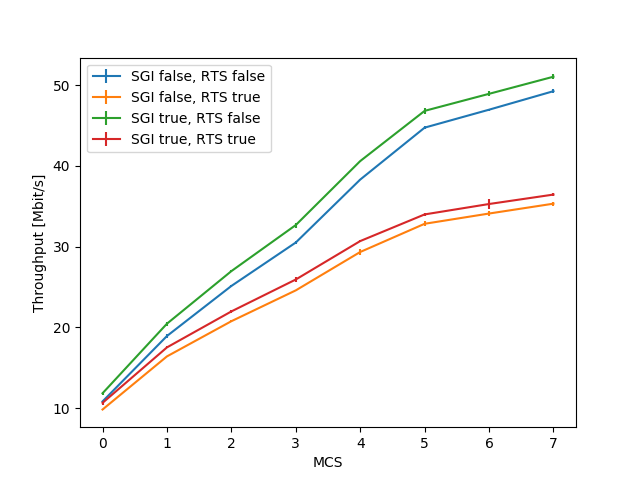
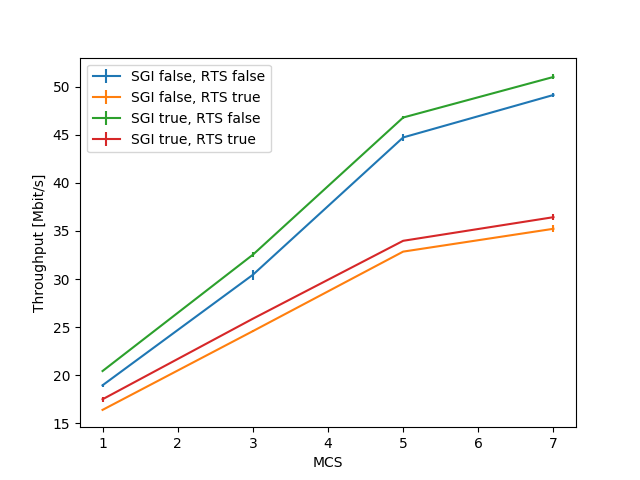
Update documentation for testing

diff --git a/sem/manager.py b/sem/manager.py
@@ -8,6 +8,7 @@ from tqdm import tqdm
 from random import shuffle
 import numpy as np
 import xarray as xr
+import os
 from pathlib import Path
 if DRMAA_AVAILABLE:
     from .gridrunner import GridRunner
@@ -84,6 +85,10 @@ class CampaignManager(object):
             optimized (bool): whether to configure the runner to employ an
                 optimized ns-3 build.
         """
+        # Convert paths to be absolute
+        ns_path = os.path.abspath(ns_path)
+        campaign_dir = os.path.abspath(campaign_dir)
+
         # Verify if the specified campaign is already available
         if Path(campaign_dir).exists() and not overwrite:
             try:

diff --git a/docs/getting-started.rst b/docs/getting-started.rst
@@ -12,7 +12,8 @@ to a variety of formats for analysis and plotting.
 
 In the following sections we will use `SEM` to go from a vanilla ns-3
 installation (assumed to be available at `/tmp/ns-3`) to plots visualizing the
-results, in as few commands as possible.
+results, in as few commands as possible. A script containing the commands of
+this section is available at `examples/wifi_plotting_xarray.py`.
 
 Creating and loading a simulation campaign
 ------------------------------------------
@@ -25,12 +26,11 @@ Creation of a new campaign requires:
 
 We can create a campaign using the following instructions::
 
-  import sem
-  ns_path = '/tmp/ns-3'
-  script = 'wifi-multi-tos'
-  campaign_dir = '/tmp/wifi-plotting-example'
-  campaign = sem.CampaignManager.new(ns_path, script,
-                                     campaign_dir)
+  >>> import sem
+  >>> ns_path = 'examples/ns-3'
+  >>> script = 'wifi-multi-tos'
+  >>> campaign_dir = '/tmp/wifi-plotting-example'
+  >>> campaign = sem.CampaignManager.new(ns_path, script, campaign_dir, overwrite=True)
 
 Internally, `SEM` also checks whether the path points to a valid ns-3
 installation, and whether the script is actually available for execution or not.
@@ -43,9 +43,8 @@ the campaign:
 
 ::
 
-   >>> print(campaign)
+   >>> print(campaign) # doctest: +SKIP
    --- Campaign info ---
-   ns-3 path: /tmp/ns-3
    script: wifi-multi-tos
    params: ['nWifi', 'distance', 'simulationTime', 'useRts', 'mcs',
             'channelWidth', 'useShortGuardInterval']
@@ -63,17 +62,18 @@ Simulations can be run by specifying a list of parameter combinations.
 
 ::
 
-  param_combination = {
-      'nWifi': 1,
-      'distance': 1,
-      'simulationTime': 10,
-      'useRts': 'false',
-      'mcs': 7,
-      'channelWidth': 20,
-      'useShortGuardInterval': 'false'
-  }
+  >>> param_combination = {
+  ...    'nWifi': 1,
+  ...    'distance': 1,
+  ...    'simulationTime': 10,
+  ...    'useRts': 'false',
+  ...    'mcs': 7,
+  ...    'channelWidth': 20,
+  ...    'useShortGuardInterval': 'false'
+  ... }
   >>> campaign.run_simulations([param_combination])
-      Running simulations: 100%|██████| 1/1 [00:04<00:00,  4.28s/simulation]
+
+  Running simulations: 100% 1/1 [00:10<00:00, 10.81s/simulation]
 
 The `run_simulations` method automatically queries the database looking for an
 appropriate `RngRun` value that has not yet been used, and runs the requested
@@ -89,19 +89,21 @@ list of dictionaries specifying all combinations of parameter values. For
 example, let's try the same simulation parameters as before, but perform the
 simulations both for the `true` and `false` values of the `useRts` parameter::
 
-  param_combinations = {
-      'nWifi': 1,
-      'distance': 1,
-      'simulationTime': 10,
-      'useRts': ['false', 'true'],
-      'mcs': 7,
-      'channelWidth': 20,
-      'useShortGuardInterval': 'false'
-  }
+  >>> param_combinations = {
+  ...     'nWifi': 1,
+  ...     'distance': 1,
+  ...     'simulationTime': 10,
+  ...     'useRts': ['false', 'true'],
+  ...     'mcs': 7,
+  ...     'channelWidth': 20,
+  ...     'useShortGuardInterval': 'false'
+  ... }
   >>> campaign.run_missing_simulations(
-                 sem.list_param_combinations(param_combinations),
-                 runs=1)
-      Running simulations: 100%|██████| 1/1 [00:04<00:00,  4.72s/simulation]
+  ...     sem.list_param_combinations(param_combinations),
+  ...     runs=1)
+
+  Running simulations: 100% 1/1 [00:09<00:00,  9.63s/simulation]
+
 
 From the output, it can be noticed that only one simulation was run: in fact,
 since we used the `run_missing_simulations` function, before running the
@@ -117,20 +119,21 @@ plot. In order to do this, first we define a new `param_combinations`
 dictionary, ranging the `mcs` parameter from 0 to 7 and turning on and off the
 `RequestToSend` and `ShortGuardInterval` parameters::
 
-  param_combinations = {
-      'nWifi': 1,
-      'distance': 1,
-      'simulationTime': 10,
-      'useRts': ['false', 'true'],
-      'mcs': list(range(8)),
-      'channelWidth': 20,
-      'useShortGuardInterval': ['false', 'true']
-  }
-
+  >>> param_combinations = {
+  ...     'nWifi': 1,
+  ...     'distance': 1,
+  ...     'simulationTime': 10,
+  ...     'useRts': ['false', 'true'],
+  ...     'mcs': list(range(1, 8, 2)),
+  ...     'channelWidth': 20,
+  ...     'useShortGuardInterval': ['false', 'true']
+  ... }
   >>> campaign.run_missing_simulations(
-                  sem.list_param_combinations(param_combinations),
-                  runs=3)
-      Running simulations: 100%|██████| 94/94 [05:47<00:00,  3.70s/simulation]
+  ...             sem.list_param_combinations(param_combinations),
+  ...             runs=2)
+
+  Running simulations: 100% 32/32 [02:57<00:00,  3.86s/simulation]
+
 
 Exporting results
 -----------------
@@ -140,21 +143,21 @@ to the `CampaignManager`, and available as the `db` attribute of the campaign.
 For instance, let's check out the first result::
 
   >>> len(campaign.db.get_results())
-      96
-  >>> campaign.db.get_results()[0]
-      {
-        'nWifi': 1,
-        'distance': 1,
-        'simulationTime': 10,
-        'useRts': 'false',
-        'mcs': 7,
-        'channelWidth': 20,
-        'useShortGuardInterval': 'false',
-        'RngRun': 1,
-        'id': '771e0511-43b9-4e33-aa6a-dc4266be24f1',
-        'elapsed_time': 4.270819187164307,
-        'stdout': 'Aggregated throughput: 49.2696 Mbit/s\n'
-      }
+  32
+  >>> campaign.db.get_results()[0] # doctest: +SKIP
+  {
+    'nWifi': 1,
+    'distance': 1,
+    'simulationTime': 10,
+    'useRts': 'false',
+    'mcs': 7,
+    'channelWidth': 20,
+    'useShortGuardInterval': 'false',
+    'RngRun': 1,
+    'id': '771e0511-43b9-4e33-aa6a-dc4266be24f1',
+    'elapsed_time': 4.270819187164307,
+    'stdout': 'Aggregated throughput: 49.2696 Mbit/s\n'
+  }
 
 Results are returned as dictionaries, with a key-value pair for each available
 script parameter, and the following additional fields:
@@ -174,20 +177,22 @@ throughput measured by the simulation. `SEM` will then use the function to
 automatically clean up the results before putting them in an `xarray`
 structure::
 
-  import re  # Regular expressions to perform the parsing
-
-
-  def get_average_throughput(stdout):
-    m = re.match('.*throughput: [-+]?([0-9]*\.?[0-9]+).*', stdout,
-                re.DOTALL).group(1)
-    return float(m)
-
+  >>> import re  # Regular expressions to perform the parsing
+  >>> def get_average_throughput(result):
+  ...     # This function takes a result and parses its standard output to extract
+  ...     # relevant information
+  ...     available_files = campaign.db.get_result_files(result['meta']['id'])
+  ...     with open(available_files['stdout'], 'r') as stdout:
+  ...         stdout = stdout.read()
+  ...         m = re.match('.*throughput: [-+]?([0-9]*\.?[0-9]+).*', stdout,
+  ...                     re.DOTALL).group(1)
+  ...         return float(m)
 
   >>> results = campaign.get_results_as_xarray(param_combinations,
-                                               get_average_throughput,
-                                               'AvgThroughput', runs=3)
+  ...                                          get_average_throughput,
+  ...                                          'AvgThroughput', runs=2)
 
-      <xarray.DataArray (useRts: 2, mcs: 8, useShortGuardInterval: 2, runs: 3)>
+      <xarray.DataArray (useRts: 2, mcs: 8, useShortGuardInterval: 2, runs: 2)>
       array([[[[10.8351 , 10.8057 , 10.8163 ],
               [11.849  , 11.8549 , 11.7901 ]],
 
@@ -204,22 +209,21 @@ structure::
 Finally, we can easily plot the obtained results by appropriately slicing the
 `DataArray`::
 
-  import matplotlib.pyplot as plt
-  import numpy as np
-  plt.figure()  # Create a new figure
-  # Iterate over all possible parameter values
-  for useShortGuardInterval in ['false', 'true']:
-    for useRts in ['false', 'true']:
-        avg = results.sel(useShortGuardInterval=useShortGuardInterval,
-                          useRts=useRts).reduce(np.mean, 'runs')
-        std = results.sel(useShortGuardInterval=useShortGuardInterval,
-                          useRts=useRts).reduce(np.std, 'runs')
-        plt.errorbar(x=param_combinations['mcs'], y=avg, yerr=6*std,
-                     label='SGI %s, RTS %s' % (useShortGuardInterval, useRts))
-        plt.xlabel('MCS')
-        plt.ylabel('Throughput [Mbit/s]')
-  plt.legend(loc='best')
-  plt.show()
+  >>> import matplotlib.pyplot as plt
+  >>> import numpy as np
+  >>> # Iterate over all possible parameter values
+  >>> for useShortGuardInterval in ['false', 'true']:
+  ...   for useRts in ['false', 'true']:
+  ...       avg = results.sel(useShortGuardInterval=useShortGuardInterval,
+  ...                         useRts=useRts).reduce(np.mean, 'runs')
+  ...       std = results.sel(useShortGuardInterval=useShortGuardInterval,
+  ...                         useRts=useRts).reduce(np.std, 'runs')
+  ...       eb = plt.errorbar(x=param_combinations['mcs'], y=avg, yerr=6*std,
+  ...                    label='SGI %s, RTS %s' % (useShortGuardInterval, useRts))
+  ...       xlb = plt.xlabel('MCS')
+  ...       ylb = plt.ylabel('Throughput [Mbit/s]')
+  >>> legend = plt.legend(loc='best')
+  >>> plt.savefig('docs/throughput.png')
 
 .. figure:: throughput.png
     :width: 100%

diff --git a/docs/index.rst b/docs/index.rst
@@ -1,9 +1,25 @@
 Welcome to SEM
 ==============
 
-SEM, a Simulation Execution Manager for ns-3, can help you efficiently
-perform multiple simulations, easily manage the results and export
-them for processing with a few lines of Python code.
+Efficiently perform multiple ns-3 simulations, easily manage the results and
+export them for processing with a few lines of Python code::
+
+  # Create a simulation campaign
+  >>> import sem
+  >>> campaign = sem.CampaignManager.new('examples/ns-3',
+  ...   'wifi-multi-tos', '/tmp/results')
+
+  # Run desired simulations with various parameter combinations
+  >>> campaign.run_missing_simulations(
+  ...   {'nWifi': 1, 'distance': 1, 'simulationTime': 10,
+  ...   'useRts': ['false', 'true'], 'mcs': [1, 3, 5, 7],
+  ...   'channelWidth': 20, 'useShortGuardInterval': 'false'},
+  ...   runs=3)
+
+  Running simulations: 100% 24/24 [00:42<00:00,  1.77s/simulation]
+
+  # Access results (stdout, stderr and generated files)
+  >>> results = campaign.db.get_complete_results()
 
 User's guide
 ------------
@@ -17,7 +33,6 @@ User's guide
 
    installation
    getting-started
-   advanced-usage
 
 API Reference
 -------------

diff --git a/docs/api.rst b/docs/api.rst
@@ -18,3 +18,9 @@ DatabaseManager
 
 .. autoclass:: sem.DatabaseManager
    :members:
+
+Utils
+---------------
+
+.. autoclass:: sem.utils
+   :members:
